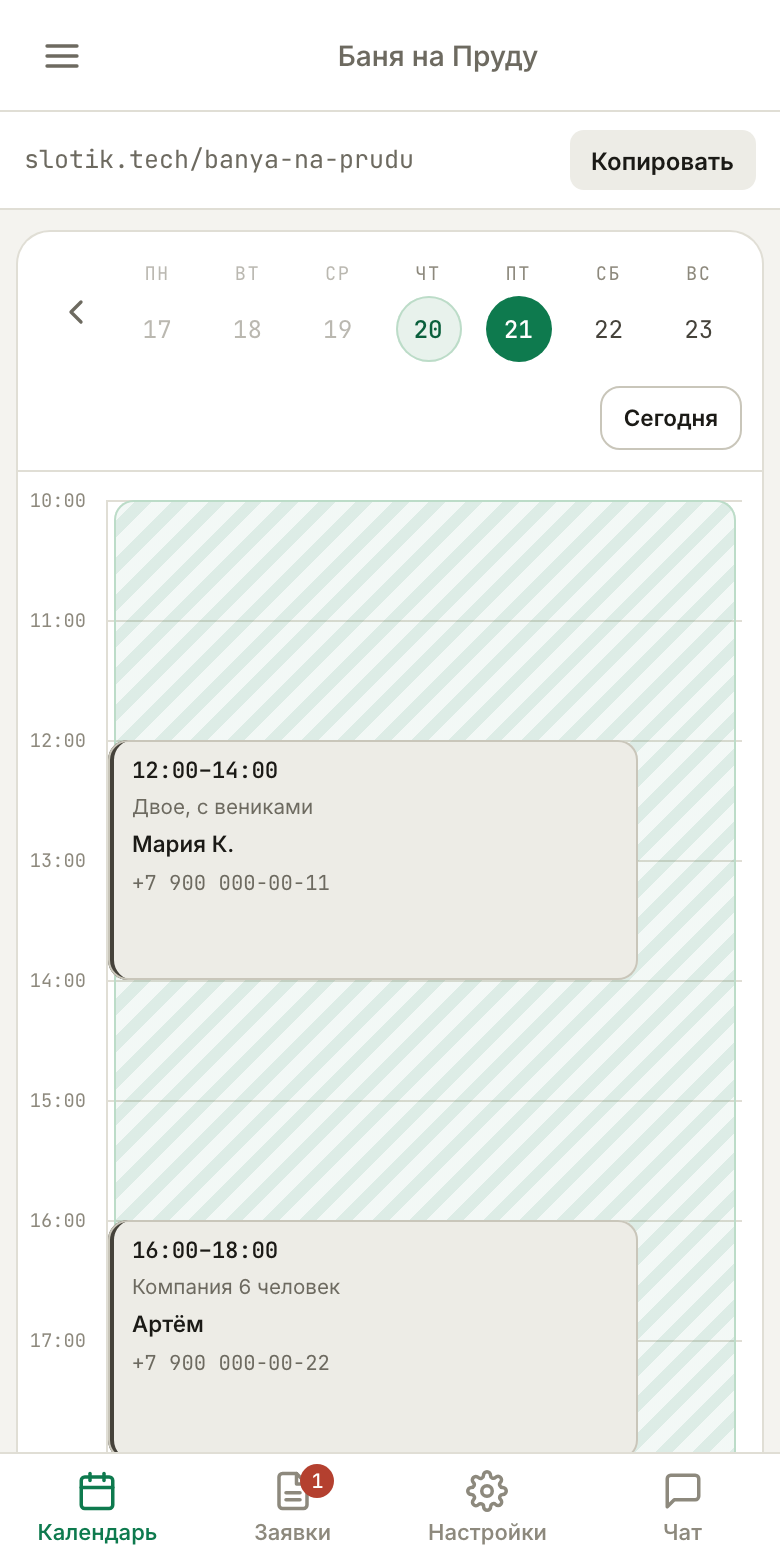
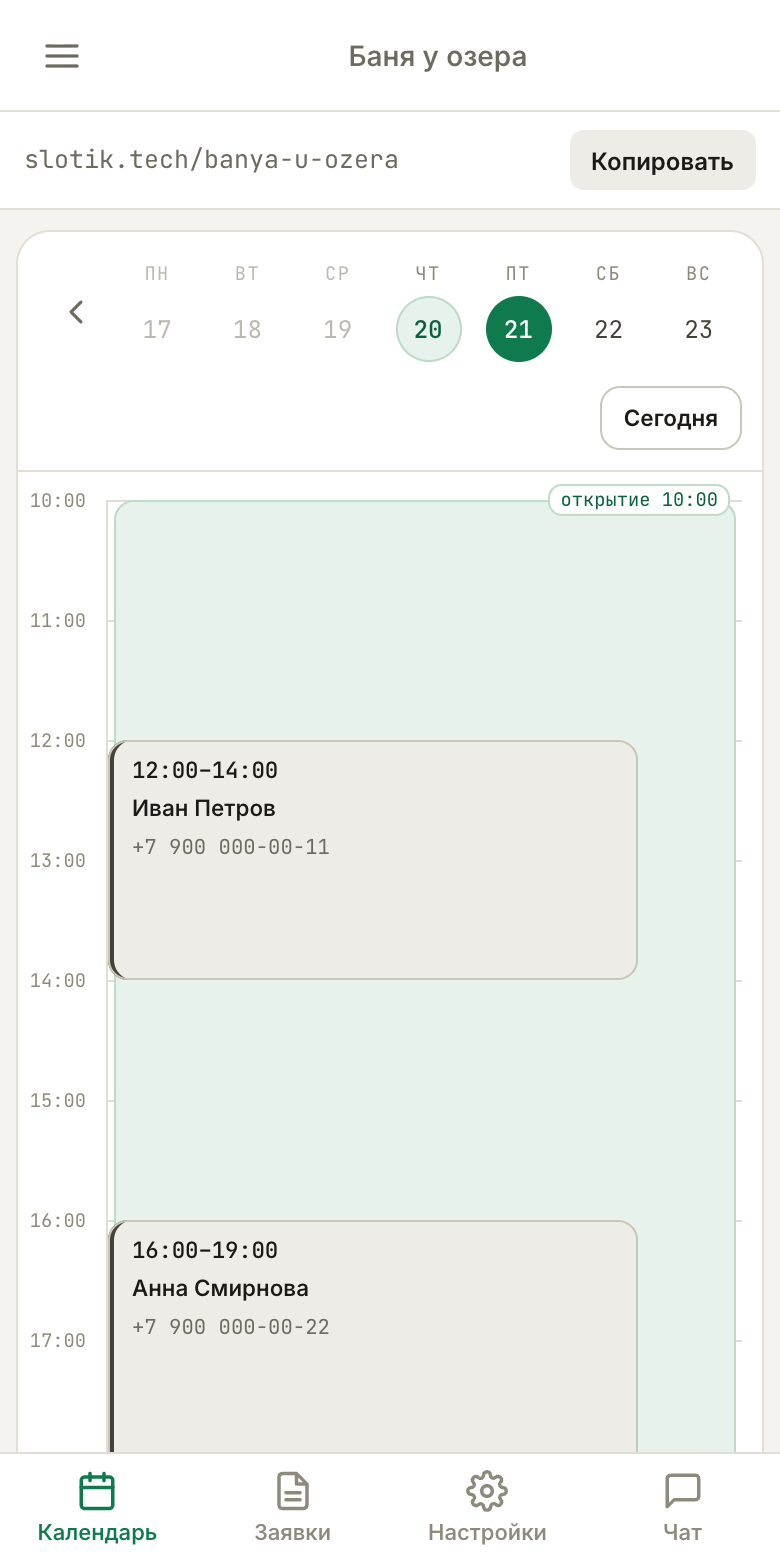
shoot landing frames with a script, and reshoot them for the new UI
Кадры лендинга снимаются с живого приложения, но порядок был описан
словами, и «снять через CDP» каждый раз делалось руками. Теперь это
scripts/shoot-landing-media.mjs: сам поднимает headless Chrome, ставит
390×780 @2x и снимает обе страницы.

Три грабли, на которые скрипт наступил и которые в нём закомментированы:
headless Chrome без стартового адреса закрывается раньше, чем откроет порт
отладки; на macOS $TMPDIR приватный для процесса и Chrome туда не пишет,
поэтому профиль лежит в /tmp; порт 9222 обычно занят уже открытым Chrome,
так что берётся свободный. Токен владельца кладётся в localStorage до
первой навигации — иначе в кадр попадает экран входа.

Сами кадры переснял: на них новая страница записи и рабочее окно вместо
штриховки в панели. Телефоны в кадре вымышленные, как и требует README.

diff --git a/landing/media/README.md b/landing/media/README.md
@@ -2,8 +2,8 @@
 
 | Файл | Описание | Формат |
 |---|---|---|
-| `screen-client.png` | Страница записи глазами клиента — свободные слоты | 780×1440 (390×720 @2x) |
-| `screen-owner.png` | Панель владельца — календарь с бронями | 780×1440 (390×720 @2x) |
+| `screen-client.png` | Страница записи глазами клиента — время и загрузка дня | 780×1560 (390×780 @2x) |
+| `screen-owner.png` | Панель владельца — календарь с бронями | 780×1560 (390×780 @2x) |
 | `fonts/inter-latin.woff2` | Inter, латиница — текст и заголовки | woff2, variable 400–800 |
 | `fonts/inter-cyrillic.woff2` | Inter, кириллица | woff2, variable 400–800 |
 | `fonts/lora-italic-latin.woff2` | Lora Italic, латиница — серифные акценты в заголовках | woff2, variable 400–700 |
@@ -31,8 +31,24 @@
 2. Создать заведение с расписанием и парой броней. Имена и телефоны в кадре
    должны быть **заведомо вымышленными** (`+7 900 000-00-11` и подобные):
    это публичная страница, реальных контактов клиентов на ней быть не должно.
-3. Снять кадры через CDP (`Emulation.setDeviceMetricsOverride`,
-   390×780, `deviceScaleFactor: 2`). Флаг `--screenshot` у headless Chrome
-   искажает вьюпорт и обрезает правый край — им пользоваться нельзя.
+   День для кадра выбирать «живой»: пара броней и свободное время рядом —
+   пустой день не показывает, зачем сервис нужен.
+3. Снять кадры скриптом:
+
+```bash
+node scripts/shoot-landing-media.mjs \
+  --client 'http://localhost:5173/<slug>?date=2026-08-21' \
+  --owner  'http://localhost:5174/' \
+  --token  '<JWT владельца из localStorage>' \
+  --owner-date 2026-08-21
+```
+
+Скрипт поднимает headless Chrome и снимает через CDP
+(`Emulation.setDeviceMetricsOverride`, 390×780, `deviceScaleFactor: 2`).
+Флаг `--screenshot` у headless Chrome искажает вьюпорт и обрезает правый
+край — им пользоваться нельзя, поэтому и понадобился CDP.
+
+Без `--token` панель владельца снимется на экране входа: у свежего профиля
+Chrome нет сессии. Токен лежит в `localStorage.token` в открытой админке.
 
 При сборке (`npm run build:landing`) всё копируется в `landing/dist/media/`.
